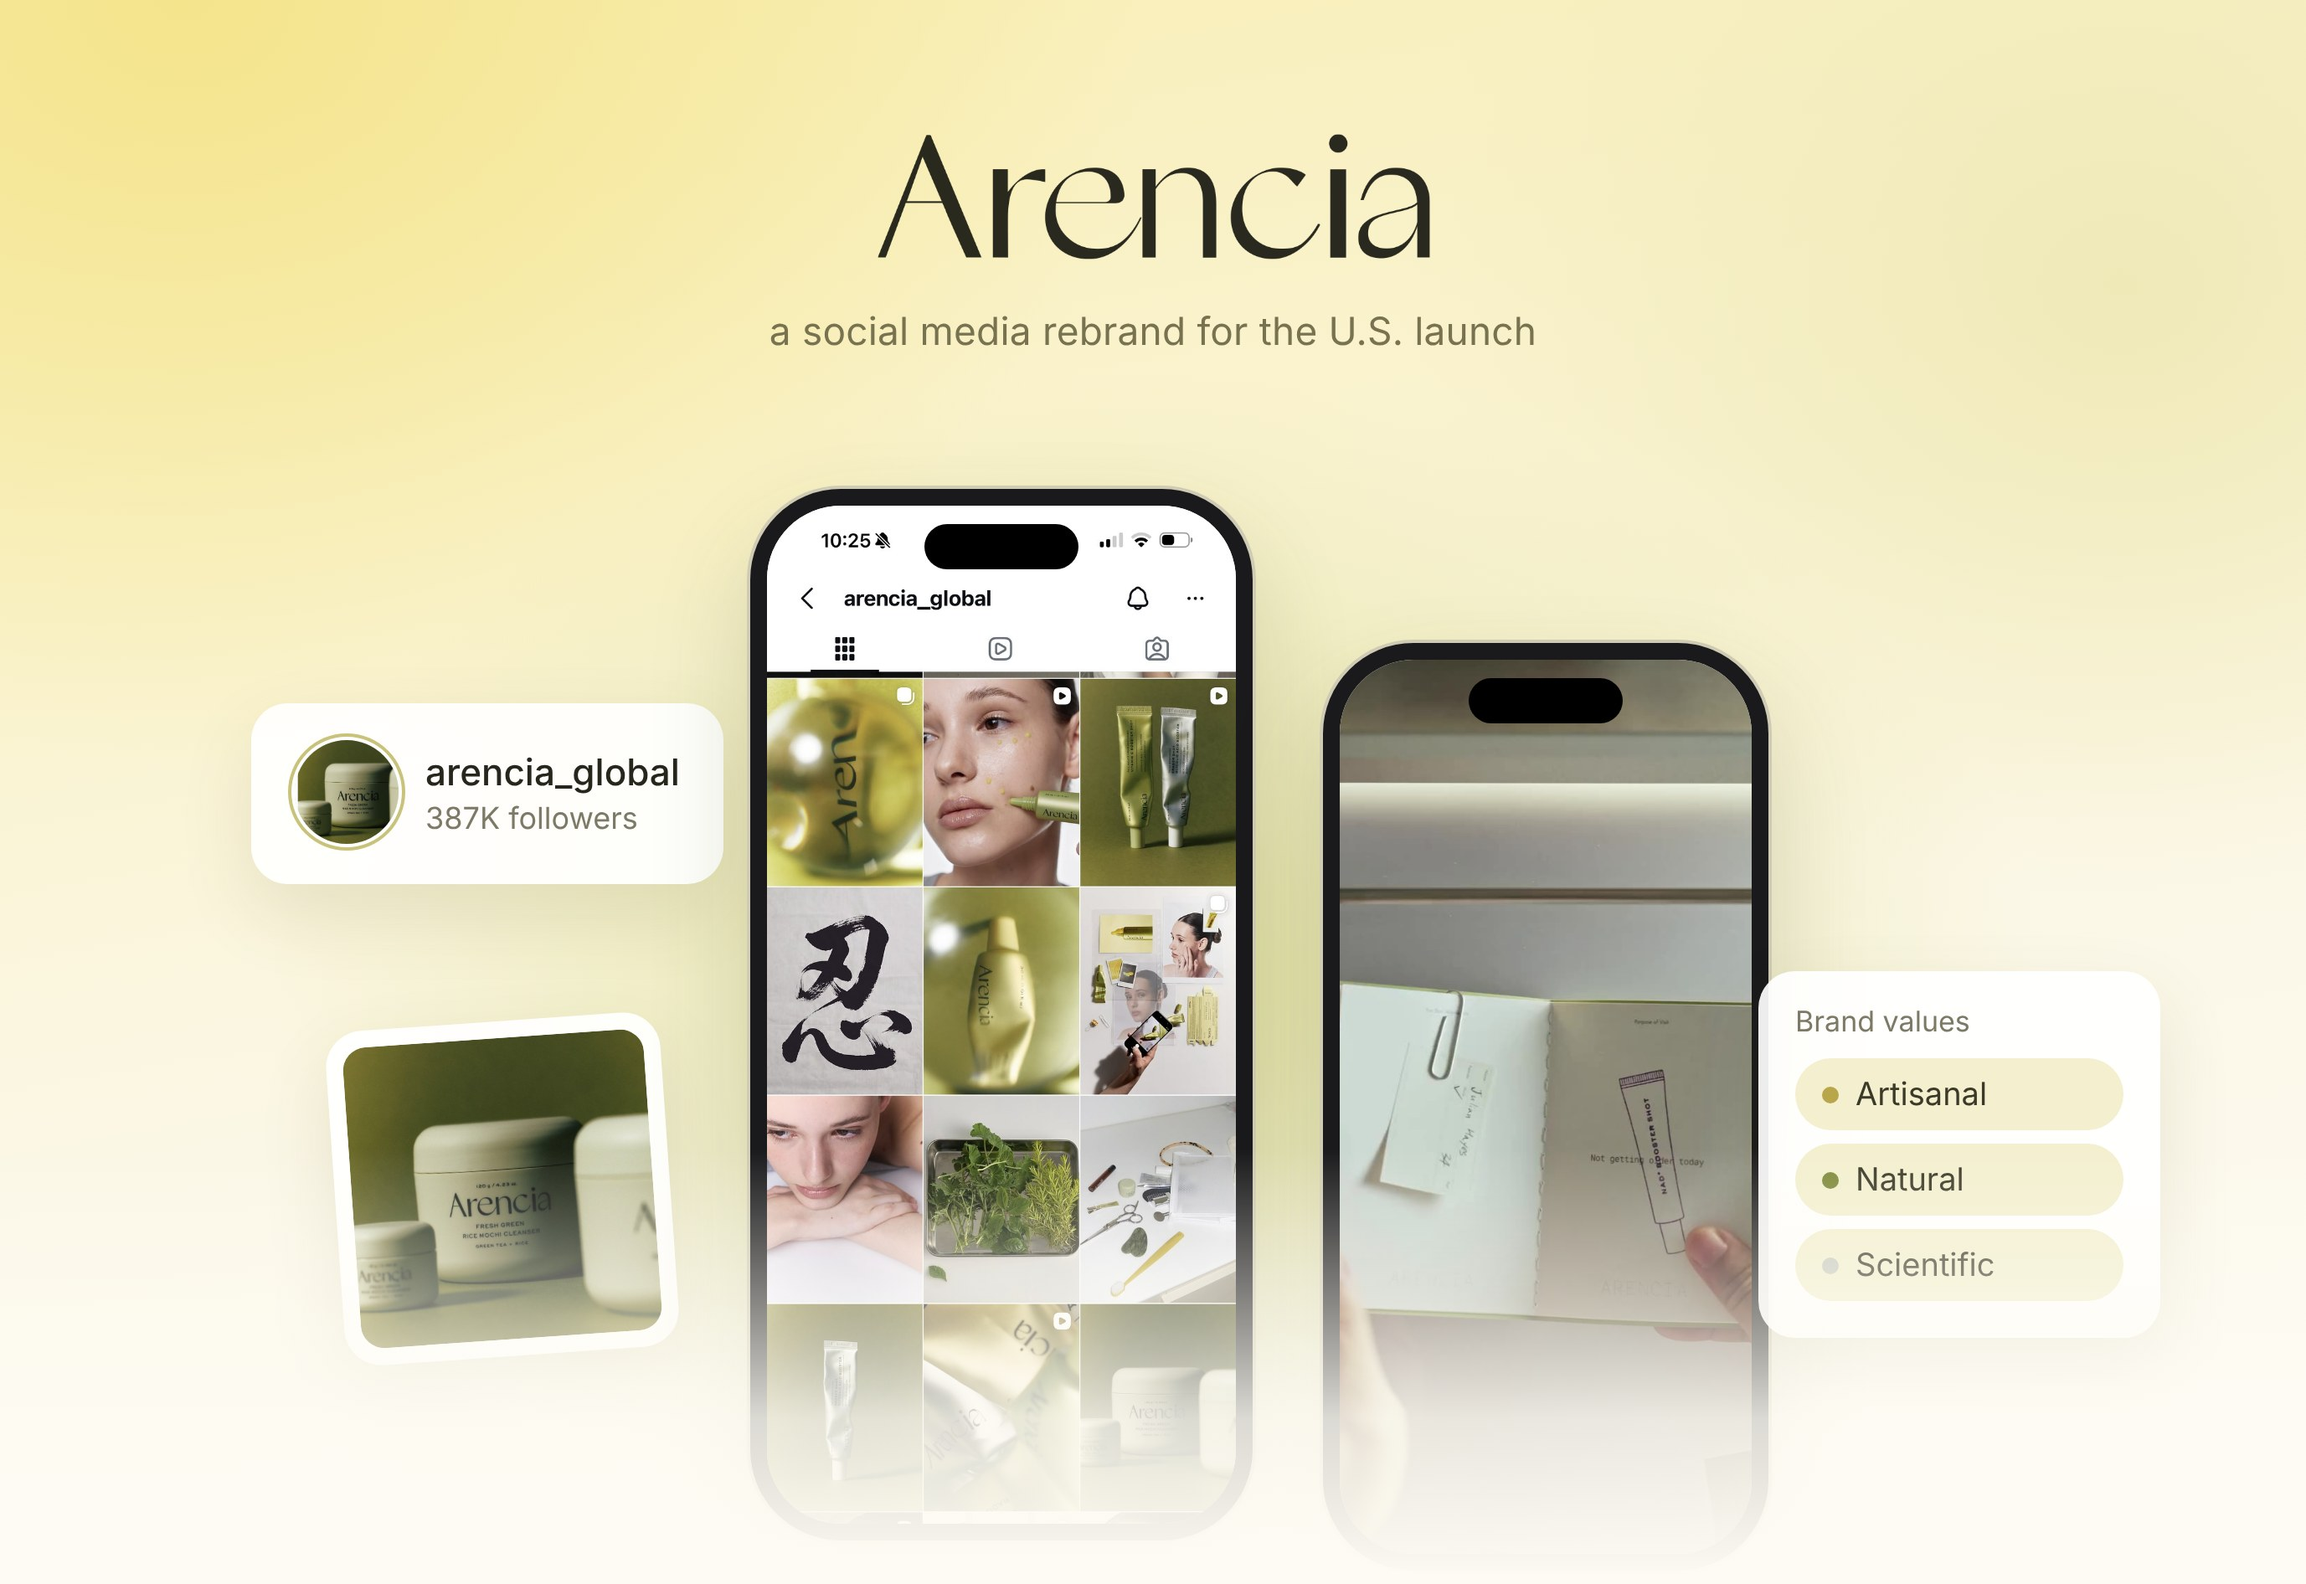
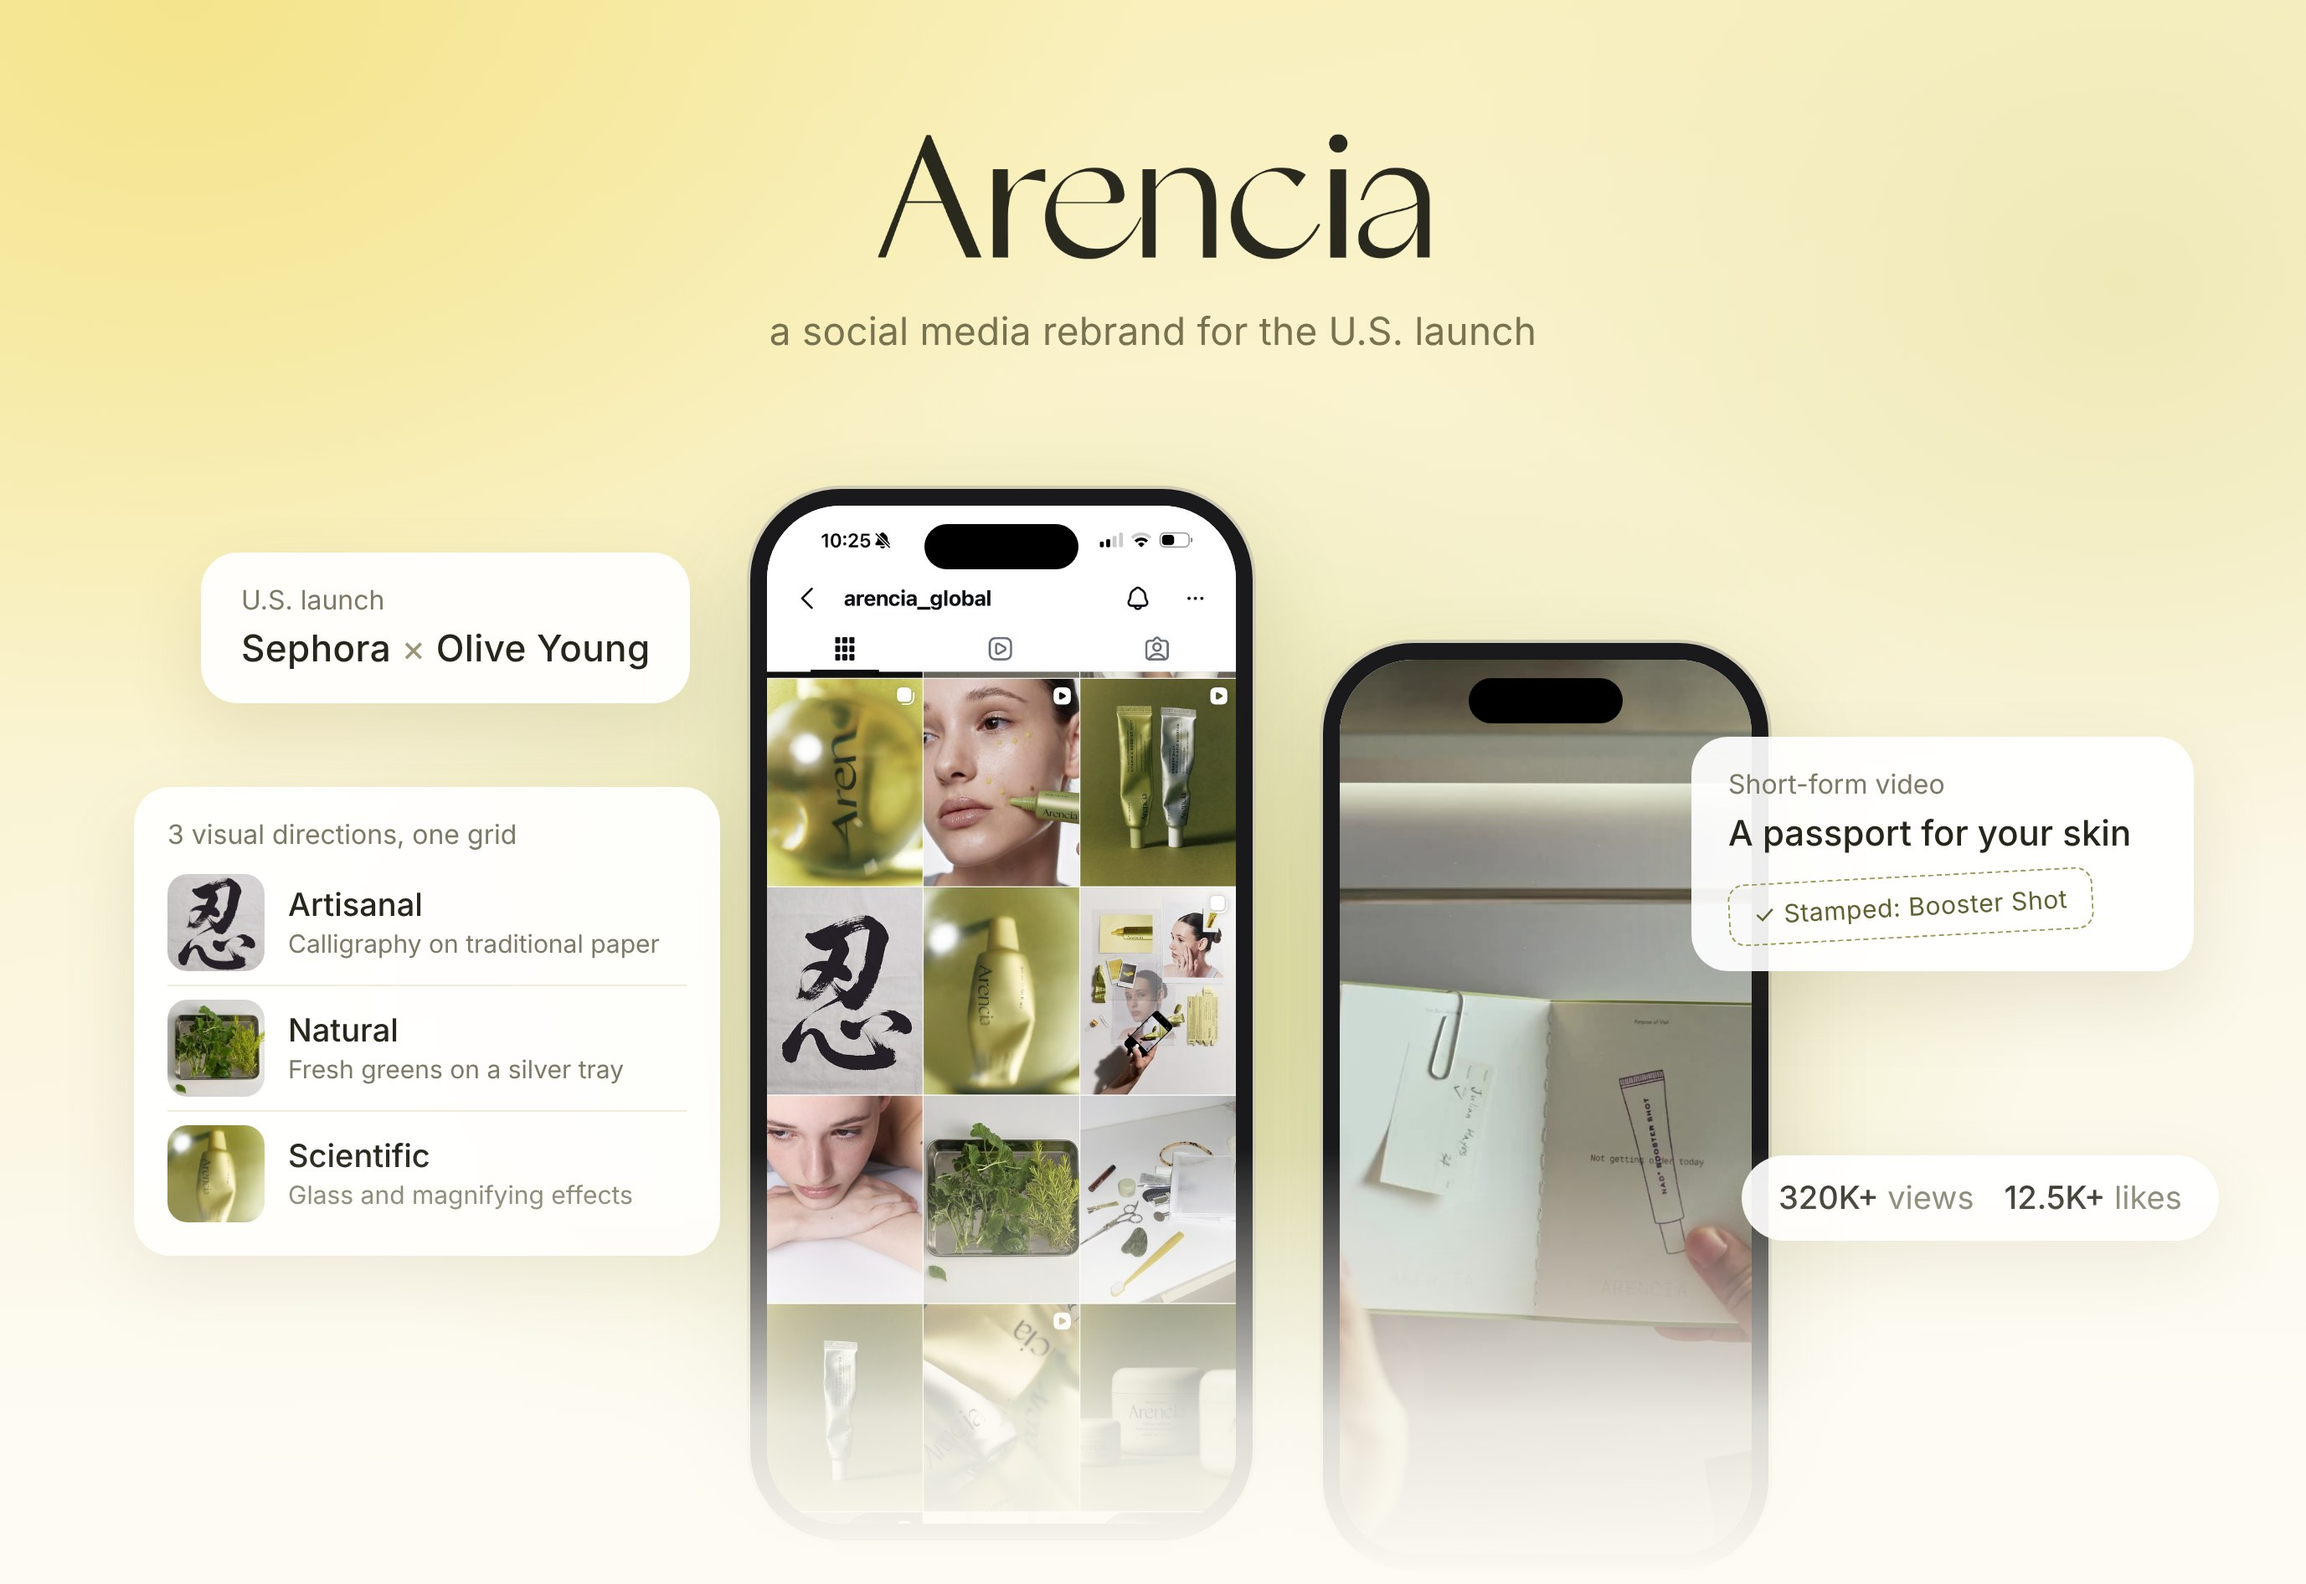
Home: Arencia cover highlights drawn from the case study (#9)
Claude-Session: https://claude.ai/code/session_01PJkMotfVeuEjavQNK4sU9G

Changed region(s): [[0.0312, 0.343, 0.3123, 0.8732], [0.7182, 0.4678, 0.968, 0.842]]

diff --git a/index.html b/index.html
@@ -60,8 +60,8 @@
 
       <a class="project" href="arencia-site/index.html">
         <div class="project__media project__media--arencia">
-          <img src="arencia-site/images/cover.jpg?v=4" width="1377" height="946"
-            alt="Arencia cover: the Arencia logo above two phones, one showing the rebranded Instagram grid in olive green and gold, the other the Booster Shot passport video, with cards for @arencia_global and the brand values artisanal, natural and scientific">
+          <img src="arencia-site/images/cover.jpg?v=5" width="1377" height="946"
+            alt="Arencia cover: the Arencia logo above two phones, one showing the rebranded Instagram grid and the other the Booster Shot passport video, with cards for the Sephora x Olive Young U.S. launch, the three visual directions (artisanal, natural, scientific), the passport video concept and 320K+ views">
           <video class="project__hover" data-src="arencia-site/images/hover.mp4?v=1" muted playsinline loop preload="none" aria-hidden="true"></video>
         </div>
         <h2 class="project__title">Arencia</h2>
